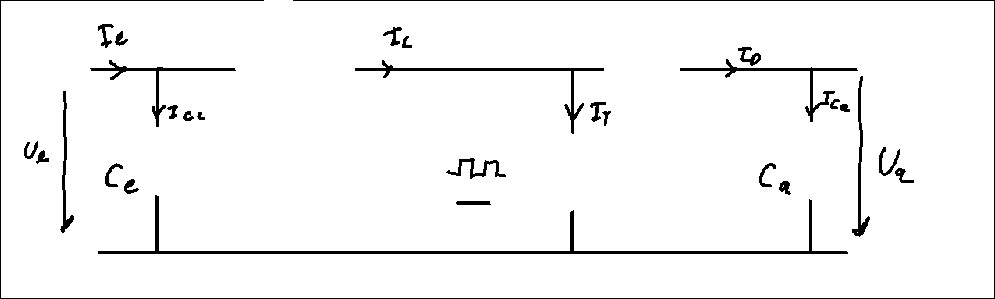
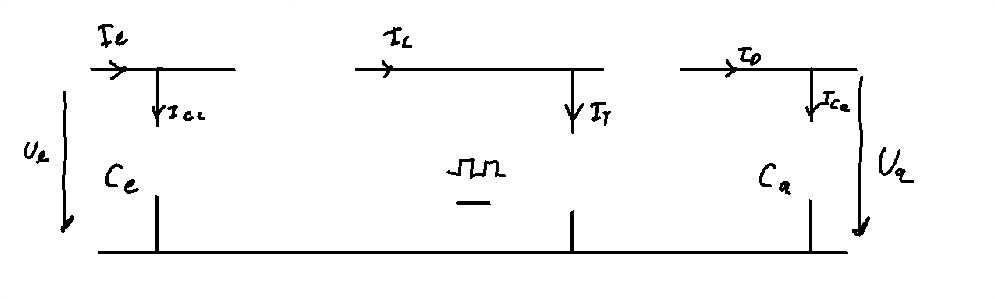
some squiggly lines instead of components

Changed region(s): [[0.0, 0.0, 1.0, 1.0], [0.0, 0.0, 0.2492, 0.0301]]

diff --git a/CircuitSynthesis/dummy_sketch_generation.py b/CircuitSynthesis/dummy_sketch_generation.py
@@ -7,6 +7,7 @@ import tensorflow as tf
 import Tools.PinDetection.pindetection as pd
 from Tools.split_circuits import split_circuit
 from Tools.dataset_utils import *
+from Tools.squigglylines import Lines
 
 def _getMedianLineThickness(img):
     _, bw = cv2.threshold(img, 127, 255, cv2.THRESH_BINARY_INV)
@@ -213,7 +214,12 @@ def _place_mic_spk(raw_components, pins, center, img):
 
     return (offset[0], offset[1], offset[0] + cmp.component_img.shape[1], offset[1] + cmp.component_img.shape[0]), type
 
-def _place_double_pinned(raw_components, pins, center, img):
+def _place_double_pinned(raw_components, pins, center, line_thickness, img):
+    # 10% probability to only draw a line
+    if random.random() < 0.1:
+        Lines.squigglyline(pins[0][0], pins[0][1], pins[1][0], pins[1][1], img, int(math.ceil(line_thickness)), 0)
+        return None, None
+
     vec_a = pins[0] - center
     vec_b = pins[1] - center
     a = np.dot(vec_a, vec_b) / (math.sqrt(np.sum(np.square(vec_a))) * math.sqrt(np.sum(np.square(vec_b))))
@@ -299,12 +305,13 @@ def place_components(dummy_objects, raw_components, line_thickness, img):
         if len(pins) == 1:
             bbox, label = _place_single_pinned(raw_components, pins[0], center, line_thickness, img)
         elif len(pins) == 2 and len(special_pins) == 0:
-            bbox, label = _place_double_pinned(raw_components, pins, center, img)
+            bbox, label = _place_double_pinned(raw_components, pins, center, line_thickness, img)
         elif len(pins) == 2 and len(special_pins) == 1:
             bbox, label = _place_triple_pinned(raw_components, pins, special_pins[0], special_pin_types[0], img)
-            if bbox is None:
-                continue
         else:
+            continue
+
+        if bbox is None:
             continue
 
         bboxes.append(bbox)
@@ -327,8 +334,8 @@ def get_examples(dummy_path, mask_path, raw_components, label_convert):
     if dummy_img.shape[:2] != mask_img.shape[:2]:
         return []
 
-    shift_y = random.randint(-int(dummy_img.shape[0] * 0.5), int(dummy_img.shape[0] * 0.5))
-    shift_x = random.randint(-int(dummy_img.shape[1] * 0.5), int(dummy_img.shape[1] * 0.5))
+    shift_y = random.randint(-int(dummy_img.shape[0] * 0.7), int(dummy_img.shape[0] * 0.7))
+    shift_x = random.randint(-int(dummy_img.shape[1] * 0.7), int(dummy_img.shape[1] * 0.7))
     dummy_img = translate_img(dummy_img, shift_x, shift_y)
     mask_img = translate_img(mask_img, shift_x, shift_y)
 
@@ -398,10 +405,9 @@ def main():
     raw_components = pd.import_components('./DataProcessing/pindetection_data/data.json')
     label_convert = _parse_fine_to_coarse('./DataProcessing/ObjectDetection/fine_to_coarse_labels.txt')
 
-    # for i in range(10):
-    #     print(i)
-    #     get_examples(f'./DataProcessing/CircuitSynthesis/DummySketchData/{i}_dummy.jpg', f'./DataProcessing/CircuitSynthesis/DummySketchData/{i}_mask.jpg', raw_components, label_convert)
-    # get_examples(f'./DataProcessing/CircuitSynthesis/DummySketchData/4_dummy.jpg', f'./DataProcessing/CircuitSynthesis/DummySketchData/4_mask.jpg', raw_components, label_convert)
+    for i in range(20, 26):
+        print(i)
+        get_examples(f'./DataProcessing/CircuitSynthesis/DummySketchData/{i}_dummy.jpg', f'./DataProcessing/CircuitSynthesis/DummySketchData/{i}_mask.jpg', raw_components, label_convert)
 
 if __name__ == '__main__':
     main()
